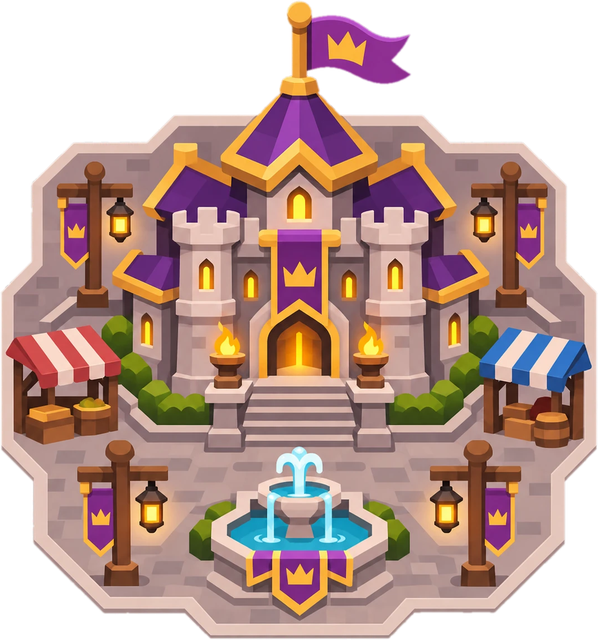
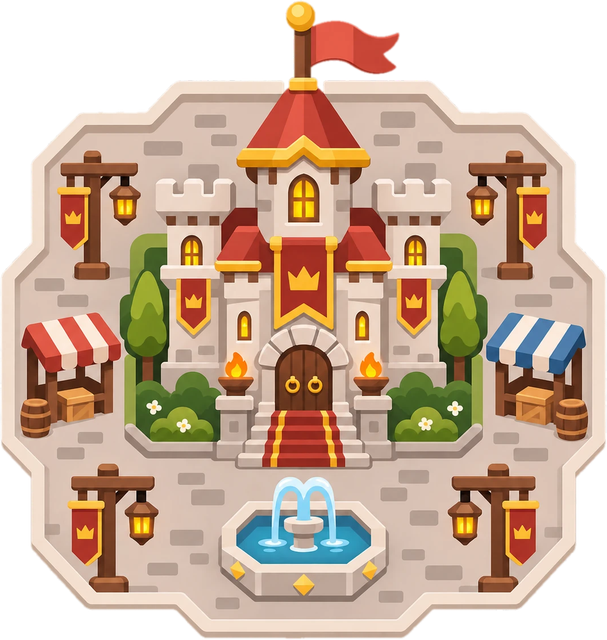
Centro da Vila com 5 niveis: dois novos visuais vermelhos e os roxos de magia ficam no fim
- Niveis 2 e 3 passam a ser os novos desenhos (vermelhos); os roxos viram os niveis 4 e 5
- Mana, Mina de Mana, Cabana do Mago e poderes so no nivel 4
- Niveis 4 e 5 muito mais caros: 14.000 (onda 14) e 45.000 (onda 22)

diff --git a/src/scenes/GameScene.ts b/src/scenes/GameScene.ts
@@ -16,6 +16,7 @@ import { isBossWave, pickOrcKind, WAVE } from '../data/units';
 import { Bars, floatText, Particles } from '../fx';
 import { loadGame, saveGame } from '../save';
 import { addCoins, addMana, spend, spendMana, state } from '../state';
+import { MAGIC_CASTLE_LEVEL } from '../data/castle';
 import { CASTLE_MANA_INCOME, MANA_GIFT, meteorDamage, POWER_FREEZE_SECONDS, POWER_METEOR_COUNT, POWERS } from '../data/powers';
 
 export class GameScene extends Phaser.Scene {
@@ -156,11 +157,11 @@ export class GameScene extends Phaser.Scene {
     this.time.delayedCall(4000, () => bus.emit(Evt.Hint, null));
   }
 
-  /** Avisa a tela do nível do Centro da Vila e da mana. No nível 3 a cidade dá mana de presente. */
+  /** Avisa a tela do nível do Centro da Vila e da mana. No nível 4 a cidade dá mana de presente. */
   private onCastleLevel(justUpgraded: boolean) {
     bus.emit(Evt.Castle, this.castle.level + 1);
     this.emitMana();
-    if (justUpgraded && this.castle.level === 2) {
+    if (justUpgraded && this.castle.level + 1 === MAGIC_CASTLE_LEVEL) {
       addMana(MANA_GIFT);
       this.emitMana();
       floatText(this, this.castle.x, this.castle.y - this.castle.h - 20, `Mana liberada! +${MANA_GIFT}`, '#7ad0ff');
@@ -172,7 +173,7 @@ export class GameScene extends Phaser.Scene {
   private emitMana(perSec?: number) {
     let inc = perSec;
     if (inc === undefined) {
-      inc = this.castle.level >= 2 ? CASTLE_MANA_INCOME : 0;
+      inc = this.castle.level + 1 >= MAGIC_CASTLE_LEVEL ? CASTLE_MANA_INCOME : 0;
       for (const h of this.huts) inc += h.manaIncome;
     }
     bus.emit(Evt.Mana, state.mana, inc);
@@ -182,7 +183,7 @@ export class GameScene extends Phaser.Scene {
 
   private usePower(id: string) {
     const def = POWERS.find(p => p.id === id);
-    if (!def || this.over || this.castle.level < 2) return;
+    if (!def || this.over || this.castle.level + 1 < MAGIC_CASTLE_LEVEL) return;
     const now = performance.now();
     if ((this.powerReady[id] ?? 0) > now) { sfx.error(); return; }
     const alive = this.orcs.filter(o => o.alive);
@@ -676,8 +677,8 @@ export class GameScene extends Phaser.Scene {
         floatText(this, h.x + (Math.random() - 0.5) * 30, h.y - h.h * 0.8, '+' + inc);
       }
       bus.emit(Evt.Income, total);
-      // mana: só depois do Centro da Vila nível 3
-      if (this.castle.level >= 2) {
+      // mana: só depois do Centro da Vila nível 4
+      if (this.castle.level + 1 >= MAGIC_CASTLE_LEVEL) {
         let mana = CASTLE_MANA_INCOME;
         for (const h of this.huts) mana += h.manaIncome;
         addMana(mana);

diff --git a/src/ui/Hud.ts b/src/ui/Hud.ts
@@ -2,6 +2,7 @@ import { audio, sfx } from '../audio';
 import { REBUILD_COIN_KEEP, REBUILD_WAVES_BACK } from '../config';
 import { clearSave } from '../save';
 import { BUILDABLES } from '../data/cabanas';
+import { MAGIC_CASTLE_LEVEL } from '../data/castle';
 import { POWERS } from '../data/powers';
 import { SWORD_MAX, swordCost, swordDamage, swordTier } from '../data/sword';
 import { bus, Evt, SelectInfo } from '../events';
@@ -96,11 +97,11 @@ export function setupHud() {
     refresh();
   });
 
-  // mana e poderes: aparecem quando o Centro da Vila chega ao nível 3
+  // mana e poderes: aparecem quando o Centro da Vila chega ao nível 4
   const keys = ['1', '2', '3'];
   POWERS.forEach((p, i) => {
     const b = document.createElement('button');
-    // cartas dos poderes ficam na barra, ao lado da espada; só aparecem com o Centro da Vila nível 3
+    // cartas dos poderes ficam na barra, ao lado da espada; só aparecem com o Centro da Vila nível 4
     b.className = 'slot power hide';
     b.title = `${p.nome} (tecla ${keys[i]}): ${p.desc}`;
     b.innerHTML = `<img src="assets/${p.art}.png" alt=""><b class="key">${keys[i]}</b><span class="cost">${gemHtml}${p.cost}</span>`;
@@ -120,8 +121,8 @@ export function setupHud() {
   bus.on(Evt.Castle, (lv: number) => {
     castleLv = lv;
     for (const s of slots.values()) if (s.need) s.el.classList.toggle('hide', castleLv < s.need);
-    $('mana').hidden = castleLv < 3;
-    for (const b of powerBtns.values()) b.classList.toggle('hide', castleLv < 3);
+    $('mana').hidden = castleLv < MAGIC_CASTLE_LEVEL;
+    for (const b of powerBtns.values()) b.classList.toggle('hide', castleLv < MAGIC_CASTLE_LEVEL);
   });
   bus.on(Evt.Mana, (n: number, inc: number) => {
     manaNow = n;

diff --git a/src/data/cabanas.ts b/src/data/cabanas.ts
@@ -1,3 +1,5 @@
+import { MAGIC_CASTLE_LEVEL } from './castle';
+
 /** Cada tipo de soldado tem o seu desenho. Se o PNG ainda não existir, usa o soldado de espada. */
 export type SoldierUnit = 'espada' | 'lanca' | 'alabarda' | 'arqueiro' | 'arqueiro2' | 'arqueiro3' | 'magoA1' | 'magoA2' | 'magoA3';
 
@@ -158,7 +160,7 @@ export const MINA_OURO: HutDef = {
 };
 
 /**
- * Cabana do Mago: só se compra com mana (Centro da Vila nível 3). Os magos aliados atiram bolas de magia azuis
+ * Cabana do Mago: só se compra com mana (Centro da Vila nível 4). Os magos aliados atiram bolas de magia azuis
  * de longe: 1-4 mago simples, 5-9 mago de armadura, 10-14 grão-mago. O 15 é o mesmo, em fúria.
  */
 const MAGO_TIERS: (Tier & { unit: SoldierUnit })[] = [
@@ -171,13 +173,13 @@ export const CABANA_MAGO: HutDef = {
   id: 'cabana_mago',
   nome: 'Cabana do Mago',
   currency: 'mana',
-  needCastle: 3,
+  needCastle: MAGIC_CASTLE_LEVEL,
   costGrowth: 1.15,
   levels: troopLevels(MAGO_TIERS, { first: 90, step: 60, hp0: 170, countBase: 2, countCap: 10 }),
 };
 
 /**
- * Mina de mana: só aparece com o Centro da Vila nível 3 e custa mana (o nível 3 já dá um pouco de mana
+ * Mina de mana: só aparece com o Centro da Vila nível 4 e custa mana (o nível 4 já dá um pouco de mana
  * para comprar a primeira). Rende mana por segundo, que paga os poderes. Só há o desenho do nível 1;
  * o visual muda no 5 e no 10.
  */
@@ -206,7 +208,7 @@ export const MINA_MANA: HutDef = {
   id: 'mina_mana',
   nome: 'Mina de Mana',
   currency: 'mana',
-  needCastle: 3,
+  needCastle: MAGIC_CASTLE_LEVEL,
   costGrowth: 1.15,
   levels: manaLevels(),
 };

diff --git a/src/data/castle.ts b/src/data/castle.ts
@@ -14,8 +14,19 @@ export interface CastleLevel {
   hutMax: number;
 }
 
+/**
+ * 5 níveis. Os dois primeiros visuais novos (vermelhos) são o crescimento normal da cidade.
+ * Os dois últimos (roxos) são a cidade que começou a prosperar na magia: liberam a mana, a Cabana do Mago e
+ * os poderes, e custam muito mais caro de conseguir.
+ */
 export const CASTLE_LEVELS: CastleLevel[] = [
-  { cost: 0,    art: 'castelo',   width: 420, hp: 800,  minWave: 0,  income: 5,  hutMax: 5 },
-  { cost: 1200, art: 'castelo_2', width: 440, hp: 1500, minWave: 4,  income: 12, hutMax: 10 },
-  { cost: 5000, art: 'castelo_3', width: 480, hp: 2800, minWave: 10, income: 25, hutMax: 15 },
+  { cost: 0,     art: 'castelo',   width: 420, hp: 800,  minWave: 0,  income: 5,  hutMax: 5 },
+  { cost: 1200,  art: 'castelo_2', width: 440, hp: 1500, minWave: 4,  income: 12, hutMax: 9 },
+  { cost: 3500,  art: 'castelo_3', width: 470, hp: 2200, minWave: 8,  income: 20, hutMax: 12 },
+  // a partir daqui: magia (mana, Cabana do Mago e poderes)
+  { cost: 14000, art: 'castelo_4', width: 480, hp: 3300, minWave: 14, income: 32, hutMax: 15 },
+  { cost: 45000, art: 'castelo_5', width: 500, hp: 4800, minWave: 22, income: 50, hutMax: 15 },
 ];
+
+/** nível do Centro da Vila que libera a mana, a Cabana do Mago e os poderes */
+export const MAGIC_CASTLE_LEVEL = 4;

diff --git a/src/data/powers.ts b/src/data/powers.ts
@@ -1,4 +1,4 @@
-/** Poderes que o jogador ativa gastando mana. Liberados com o Centro da Vila nível 3. */
+/** Poderes que o jogador ativa gastando mana. Liberados com o Centro da Vila nível 4. */
 export interface PowerDef {
   id: 'meteoros' | 'congelar' | 'curar';
   nome: string;
@@ -21,7 +21,7 @@ export const POWER_FREEZE_SECONDS = 5;
 export const POWER_METEOR_COUNT = 6;
 /** dano de cada meteoro: base + por onda */
 export const meteorDamage = (wave: number) => 80 + wave * 10;
-/** mana que o Centro da Vila nível 3 dá de presente, para comprar a primeira mina de mana */
+/** mana que o Centro da Vila nível 4 dá de presente, para comprar a primeira mina de mana */
 export const MANA_GIFT = 120;
-/** mana por segundo que o Centro da Vila nível 3 gera sozinho (para nunca ficar sem saída) */
+/** mana por segundo que o Centro da Vila nível 4 gera sozinho (para nunca ficar sem saída) */
 export const CASTLE_MANA_INCOME = 1;

diff --git a/src/scenes/BootScene.ts b/src/scenes/BootScene.ts
@@ -8,6 +8,8 @@ export class BootScene extends Phaser.Scene {
     this.load.image('castelo', 'assets/castelo.png');
     this.load.image('castelo_2', 'assets/castelo_2.png');
     this.load.image('castelo_3', 'assets/castelo_3.png');
+    this.load.image('castelo_4', 'assets/castelo_4.png');
+    this.load.image('castelo_5', 'assets/castelo_5.png');
     this.load.image('soldado', 'assets/soldado.png');
     this.load.image('espada', 'assets/espada.png');
     this.load.image('espada_2', 'assets/espada_2.png');
